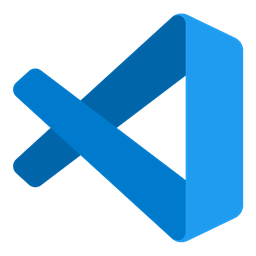
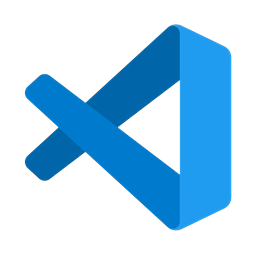
refactor(settings): consolidate curated skills into other settings
Move the curated skills controls out of the standalone MCP/Skills settings
section and into the Other settings section. Legacy deep links for `mcp` and
`mcp-skills` now resolve to Other settings so existing navigation still lands
on the available controls.

Update the client documentation tree to describe the new Settings > Other
placement for curated skills and MCP skills references. Remove the now-unused
settings sidebar entries for MCP/Skills and Permissions, along with their
unused icons and placeholder rendering paths.

Refresh tests to verify that the Skills sidebar entry is gone and that the
curated skills UI renders inside Other settings. Also adjust the provider
dialog proxy warning placement and styling so the warning appears below the
endpoint controls with stable single-line truncation.

Finally, update the VS Code app icon asset and include Grok in the dark-brand
topbar underline behavior so its active tab accent matches Codex and Kimi.

Impact: users now find bundled curated skills under Other settings instead of a
separate Skills sidebar item, old deep links continue to work, and related
documentation/tests match the new navigation structure.

Tested: SettingsView and OtherSection test coverage updated
Not-tested: Full settings visual regression pass

diff --git a/src/features/settings/components/SettingsView.tsx b/src/features/settings/components/SettingsView.tsx
@@ -47,16 +47,12 @@ import { DEFAULT_OPEN_APP_ID } from "../../app/constants";
 import { writeClientStoreValue } from "../../../services/clientStorage";
 import { VendorSettingsPanel } from "../../vendors/components/VendorSettingsPanel";
 import { AgentSettingsSection } from "./AgentSettingsSection";
-import { PlaceholderSection } from "./PlaceholderSection";
 import { CommitSection } from "./CommitSection";
 import { PromptSection } from "./PromptSection";
 import { UsageSection } from "./UsageSection";
-import { CuratedSection } from "../../curated-skills";
 import type { SessionRadarEntry } from "../../session-activity/hooks/useSessionRadarFeed";
 import { deleteSessionRadarHistoryEntries } from "../../session-activity/utils/sessionRadarHistoryManagement";
 import Settings from "lucide-react/dist/esm/icons/settings";
-import Server from "lucide-react/dist/esm/icons/server";
-import Shield from "lucide-react/dist/esm/icons/shield";
 import BarChart3 from "lucide-react/dist/esm/icons/bar-chart-3";
 import MoreHorizontalIcon from "lucide-react/dist/esm/icons/more-horizontal";
 import Users from "lucide-react/dist/esm/icons/users";
@@ -700,9 +696,6 @@ export function SettingsView({
     [],
   );
   const shouldShowWorkspaceSelector = false;
-  const mcpSectionDisabled = TEMPORARILY_DISABLED_SIDEBAR_SECTIONS.has("mcp");
-  const permissionsSectionDisabled =
-    TEMPORARILY_DISABLED_SIDEBAR_SECTIONS.has("permissions");
   const hasCodexHomeOverrides = useMemo(
     () => projects.some((workspace) => workspace.settings.codexHome != null),
     [projects],
@@ -835,6 +828,11 @@ export function SettingsView({
 
   useEffect(() => {
     if (initialSection) {
+      // 「内置精选」已并入其他设置；遗留 mcp 深链统一落到 other。
+      if (initialSection === "mcp") {
+        setActiveSection("other");
+        return;
+      }
       setActiveSection(
         TEMPORARILY_DISABLED_SIDEBAR_SECTIONS.has(initialSection)
           ? "providers"
@@ -879,7 +877,8 @@ export function SettingsView({
         return;
       case "mcp-servers":
       case "mcp-skills":
-        setActiveSection("mcp");
+        // 内置精选入口已取消，深链落到其他设置。
+        setActiveSection("other");
         return;
       case "runtime-pool":
         setActiveSection("runtime-environment");
@@ -1715,11 +1714,6 @@ export function SettingsView({
           title: t("settings.sidebarProjectManagement"),
           description: t("settings.projectManagementDescription"),
         };
-      case "mcp":
-        return {
-          title: t("settings.sidebarMcpSkills"),
-          description: t("settings.mcpSkillsDescription"),
-        };
       case "permissions":
         return {
           title: t("settings.placeholder.permissions.title"),
@@ -1827,32 +1821,6 @@ export function SettingsView({
           >
             <LayoutGrid aria-hidden />
             {t("settings.sidebarProjectManagement")}
-          </button>
-          <button
-            type="button"
-            className={`settings-nav ${!mcpSectionDisabled && activeSection === "mcp" ? "active" : ""}${mcpSectionDisabled ? " is-disabled" : ""}`}
-            onClick={() => {
-              if (!mcpSectionDisabled) {
-                setActiveSection("mcp");
-              }
-            }}
-            disabled={mcpSectionDisabled}
-          >
-            <Server aria-hidden />
-            {t("settings.sidebarMcpSkills")}
-          </button>
-          <button
-            type="button"
-            className={`settings-nav ${!permissionsSectionDisabled && activeSection === "permissions" ? "active" : ""}${permissionsSectionDisabled ? " is-disabled" : ""}`}
-            onClick={() => {
-              if (!permissionsSectionDisabled) {
-                setActiveSection("permissions");
-              }
-            }}
-            disabled={permissionsSectionDisabled}
-          >
-            <Shield aria-hidden />
-            {t("settings.sidebarPermissions")}
           </button>
           <button
             type="button"
@@ -2199,19 +2167,6 @@ export function SettingsView({
               onUpdateAppSettings={onUpdateAppSettings}
             />
           )}
-          {activeSection === "mcp" && (
-            // MCP 服务器清单已整体迁移到「拓展 → Mcps」；设置侧只保留
-            // 随包发布的内置精选 Skills 开关。
-            <section className="settings-section">
-              <CuratedSection
-                appSettings={appSettings}
-                onUpdateAppSettings={onUpdateAppSettings}
-              />
-            </section>
-          )}
-          {activeSection === "permissions" && (
-            <PlaceholderSection type="permissions" />
-          )}
           {activeSection === "commit" && (
             <CommitSection
               commitPrompt={commitPrompt}
@@ -2270,6 +2225,8 @@ export function SettingsView({
             <OtherSection
               title={null}
               description={null}
+              appSettings={appSettings}
+              onUpdateAppSettings={onUpdateAppSettings}
               sessionRadarRecentCompletedSessions={
                 sessionRadarRecentCompletedSessions
               }

diff --git a/src/features/client-documentation/clientDocumentationData.ts b/src/features/client-documentation/clientDocumentationData.ts
@@ -866,12 +866,12 @@ export const CLIENT_DOCUMENTATION_TREE: ClientDocumentationNode[] = [
     feature("global-search", "全局搜索入口", "聚合多类搜索结果。", "Search shortcut / palette", "统一查找文件、会话、命令等内容。", ["providers", "ranking", "jump"], ["搜索不是权限绕过路径。"], ["设置中心"]),
     feature("source-navigation", "文件、会话、上下文跳转", "从结果跳回来源。", "Search result / context source", "保持阅读和操作连贯。", ["file jump", "message jump", "source cards"], ["目标不存在时应展示可恢复状态。"], ["对话与会话"]),
   ]),
-  module("settings-center", "设置中心", "配置外观、快捷键、运行环境和供应商。", "Settings modal。", "集中管理用户偏好和运行前置条件。", ["基础设置", "外观与 UI visibility", "快捷键", "打开方式", "Web 服务", "邮件发送", "项目管理", "Runtime Environment", "Skills", "供应商与模型配置"], ["打开设置。", "选择左侧父入口和页内 tab。", "保存后按提示重启或下次生效。"], ["说明文档本期不新增 settings 字段。"], ["AI 引擎与模型", "Runtime 与终端"], [
+  module("settings-center", "设置中心", "配置外观、快捷键、运行环境和供应商。", "Settings modal。", "集中管理用户偏好和运行前置条件。", ["基础设置", "外观与 UI visibility", "快捷键", "打开方式", "Web 服务", "邮件发送", "项目管理", "Runtime Environment", "其他设置（含内置精选）", "供应商与模型配置"], ["打开设置。", "选择左侧父入口和页内 tab。", "保存后按提示重启或下次生效。"], ["说明文档本期不新增 settings 字段。"], ["AI 引擎与模型", "Runtime 与终端"], [
     feature("appearance-shortcuts", "外观、UI visibility 与快捷键", "控制界面显示和快捷键。", "Settings > Basic", "按个人习惯调整客户端。", ["theme", "UI visibility", "shortcuts"], ["最大隐藏模式仍需保留设置恢复路径。"], ["搜索与导航"]),
     feature("runtime-provider-settings", "Runtime Environment 与供应商配置", "配置 CLI、模型和 runtime 校验。", "Settings > Runtime / Providers", "保证引擎可启动、可诊断。", ["doctor", "vendor models", "runtime pool"], ["Windows doctor 与 macOS 权限提示不同。"], ["AI 引擎与模型"]),
   ]),
-  module("extension-capabilities", "扩展能力", "管理 MCP、Skills、Commands、Computer Use 和协作模式。", "拓展 > Skills / Mcps、Settings > Skills、Commands、Computer Use 面板。", "把外部工具能力接入客户端工作流。", ["MCP server inventory", "Skills 浏览", "Commands", "Computer Use", "Live edit preview", "Collaboration mode"], ["检查 MCP/Skills 状态。", "选择 commands 或协作模式。", "按平台能力启用 Computer Use。"], ["Computer Use 等能力有平台权限边界。"], ["设置中心", "Runtime 与终端"], [
-    feature("mcp-skills", "MCP server inventory 与 Skills", "查看工具服务和技能目录。", "拓展 > Mcps / Settings > Skills", "理解当前 AI 可调用的工具范围。", ["server inventory", "skills browser", "refresh"], ["说明窗口不读取或执行 skill 文件。"], ["Spec Hub 与规范工作流"]),
+  module("extension-capabilities", "扩展能力", "管理 MCP、Skills、Commands、Computer Use 和协作模式。", "拓展 > Skills / Mcps、Settings > 其他设置、Commands、Computer Use 面板。", "把外部工具能力接入客户端工作流。", ["MCP server inventory", "Skills 浏览", "Commands", "Computer Use", "Live edit preview", "Collaboration mode"], ["检查 MCP/Skills 状态。", "选择 commands 或协作模式。", "按平台能力启用 Computer Use。"], ["Computer Use 等能力有平台权限边界。"], ["设置中心", "Runtime 与终端"], [
+    feature("mcp-skills", "MCP server inventory 与 Skills", "查看工具服务和技能目录。", "拓展 > Mcps / Settings > 其他设置", "理解当前 AI 可调用的工具范围。", ["server inventory", "skills browser", "refresh"], ["说明窗口不读取或执行 skill 文件。"], ["Spec Hub 与规范工作流"]),
     feature("computer-use-collaboration", "Computer Use 与 Collaboration mode", "提供屏幕/协作相关能力入口。", "Computer Use / collaboration controls", "扩展 AI 处理真实任务的能力。", ["broker status", "permissions", "mode selection"], ["macOS 权限与 Windows 支持状态必须分别说明。"], ["AI 引擎与模型"]),
   ]),
   module("notifications-updates-about", "通知、更新与关于", "展示通知、更新和版本信息。", "Toast、Update check、About window。", "让用户知道任务完成、错误、版本和诊断状态。", ["系统通知", "完成提醒", "update check", "about / version 信息", "debug / diagnostics"], ["观察 toast。", "触发更新检查。", "查看 About 或 Debug 信息。"], ["通知不等于任务成功，仍需看状态或测试结果。"], ["任务与状态面板", "设置中心"], [

diff --git a/src/features/settings/components/settings-view/sections/OtherSection.tsx b/src/features/settings/components/settings-view/sections/OtherSection.tsx
@@ -12,8 +12,10 @@ import {
   setPerfDiagnosticsEnabled,
 } from "@/services/perfBaseline/perfDiagnosticsController";
 import { buildDiagnosticsReportText } from "@/services/perfBaseline/diagnosticsReport";
+import { CuratedSection } from "../../../../curated-skills";
 import { HistoryCompletionSettings } from "../../HistoryCompletionSettings";
 import { SessionRadarHistoryManagementSection } from "../../SessionRadarHistoryManagementSection";
+import type { AppSettings } from "../../../../../types";
 import type { SessionRadarEntry } from "../../../../session-activity/hooks/useSessionRadarFeed";
 import type { SessionRadarHistoryDeleteResult } from "../../../../session-activity/utils/sessionRadarHistoryManagement";
 import {
@@ -35,6 +37,8 @@ import {
 type OtherSectionProps = {
   title: string | null;
   description: string | null;
+  appSettings: Pick<AppSettings, "enabledCuratedSkillIds">;
+  onUpdateAppSettings: (next: AppSettings) => Promise<void>;
   sessionRadarRecentCompletedSessions: SessionRadarEntry[];
   onDeleteSessionRadarHistory: (
     entries: SessionRadarEntry[],
@@ -44,6 +48,8 @@ type OtherSectionProps = {
 export function OtherSection({
   title,
   description,
+  appSettings,
+  onUpdateAppSettings,
   sessionRadarRecentCompletedSessions,
   onDeleteSessionRadarHistory,
 }: OtherSectionProps) {
@@ -130,6 +136,12 @@ export function OtherSection({
       {description ? (
         <div className="settings-section-subtitle">{description}</div>
       ) : null}
+      {/* 内置精选 Skills：原独立侧栏入口已合并到其他设置 */}
+      <CuratedSection
+        appSettings={appSettings}
+        onUpdateAppSettings={onUpdateAppSettings}
+      />
+      <Separator className="my-4" />
       <HistoryCompletionSettings />
       <Separator className="my-4" />
       <div className="settings-subsection-title">

diff --git a/src/features/settings/components/settings-view/sections/OtherSection.test.tsx b/src/features/settings/components/settings-view/sections/OtherSection.test.tsx
@@ -31,6 +31,10 @@ vi.mock("../../HistoryCompletionSettings", () => ({
   HistoryCompletionSettings: () => <div data-testid="history-completion-settings" />,
 }));
 
+vi.mock("../../../../curated-skills", () => ({
+  CuratedSection: () => <div data-testid="curated-section-stub">Mock Curated Section</div>,
+}));
+
 vi.mock("./CostBudgetSettingsSection", () => ({
   CostBudgetSettingsSection: () => <div data-testid="cost-budget-settings" />,
 }));
@@ -46,6 +50,8 @@ function renderOtherSection() {
     <OtherSection
       title="Other"
       description="Other settings"
+      appSettings={{ enabledCuratedSkillIds: [] }}
+      onUpdateAppSettings={vi.fn().mockResolvedValue(undefined)}
       sessionRadarRecentCompletedSessions={[]}
       onDeleteSessionRadarHistory={vi.fn()}
     />,
@@ -56,6 +62,11 @@ describe("OtherSection performance diagnostics", () => {
   afterEach(() => {
     window.localStorage.clear();
     vi.unstubAllGlobals();
+  });
+
+  it("renders curated skills inside other settings", () => {
+    renderOtherSection();
+    expect(screen.getByTestId("curated-section-stub")).toBeTruthy();
   });
 
   it("shows default-on and persists explicit negative/positive overrides", () => {

diff --git a/src/features/settings/components/SettingsView.test.tsx b/src/features/settings/components/SettingsView.test.tsx
@@ -754,9 +754,10 @@ describe("SettingsView Display", () => {
         projectManagementEntry,
       ),
     );
+    // 内置精选已并入「其他设置」，侧栏不再有独立 Skills 入口。
     expect(
-      sidebarQueries.getByRole("button", { name: "Skills" }),
-    ).toBeTruthy();
+      sidebarQueries.queryByRole("button", { name: "Skills" }),
+    ).toBeNull();
     expect(
       sidebarQueries.getByRole("button", { name: "Agents / Prompts" }),
     ).toBeTruthy();
@@ -2314,9 +2315,9 @@ describe("SettingsView Shortcuts", () => {
     await flushSettingsViewEffects();
     expect(screen.getByText("settings.prompt.title")).toBeTruthy();
 
-    fireEvent.click(screen.getByRole("button", { name: "Skills" }));
+    fireEvent.click(screen.getByRole("button", { name: "Other" }));
     await flushSettingsViewEffects();
-    // MCP 服务器清单已迁移到「拓展 → Mcps」；设置侧该页只保留内置精选 Skills。
+    // 内置精选 Skills 已并入「其他设置」。
     expect(screen.getByTestId("curated-section-stub")).toBeTruthy();
 
     // 运行环境入口已从侧栏隐藏；内容逻辑仍保留，可通过 initialSection 验证。

diff --git a/src/features/vendors/components/ProviderDialog.tsx b/src/features/vendors/components/ProviderDialog.tsx
@@ -492,12 +492,6 @@ export function ProviderDialog({
                   ? t("settings.vendor.dialog.apiUrlLockedHint")
                   : t("settings.vendor.dialog.apiUrlHint")}
               </small>
-              {!isOfficialAnthropicEndpoint(apiUrl) && (
-                <div className="vendor-security-notice vendor-proxy-warning">
-                  <Cloud size={14} />
-                  <span>{t("settings.vendor.dialog.proxyEndpointWarning")}</span>
-                </div>
-              )}
             </div>
 
             <div className="vendor-form-group">
@@ -532,6 +526,13 @@ export function ProviderDialog({
               </small>
             </div>
           </div>
+
+          {!isOfficialAnthropicEndpoint(apiUrl) && (
+            <div className="vendor-security-notice vendor-proxy-warning">
+              <Cloud size={14} />
+              <span>{t("settings.vendor.dialog.proxyEndpointWarning")}</span>
+            </div>
+          )}
 
           <div className="vendor-form-group">
             <label>{t("settings.vendor.dialog.modelMapping")}</label>

diff --git a/src/styles/main.css b/src/styles/main.css
@@ -935,10 +935,11 @@ body[data-panel-resizing="true"] .main {
 }
 
 /* Engine-branded underline: Claude keeps the default clay accent.
-   Codex and Kimi track --text-stronger (near-black in light, light gray in dark)
+   Codex / Kimi / Grok track --text-stronger (near-black in light, light gray in dark)
    so the black brands stay visible on dark backgrounds. */
 .topbar-session-tab[data-engine="codex"],
-.topbar-session-tab[data-engine="kimi"] {
+.topbar-session-tab[data-engine="kimi"],
+.topbar-session-tab[data-engine="grok"] {
   --topbar-tab-active-accent: var(--text-stronger);
 }
 

diff --git a/src/styles/settings.vendor-dialog.css b/src/styles/settings.vendor-dialog.css
@@ -99,12 +99,18 @@
 }
 
 .vendor-proxy-warning {
-  margin-top: 8px;
+  margin-top: 0;
   padding: 8px 12px;
   border-color: color-mix(in srgb, #f39c12 45%, transparent);
   background: color-mix(in srgb, #f39c12 10%, var(--surface-card-strong));
   font-size: 12px;
   font-weight: 400;
+  white-space: nowrap;
+}
+
+.vendor-proxy-warning span {
+  overflow: hidden;
+  text-overflow: ellipsis;
 }
 
 .vendor-proxy-warning svg {

diff --git a/src/app-shell-parts/useAppShellLayoutNodesSection.tsx b/src/app-shell-parts/useAppShellLayoutNodesSection.tsx
@@ -1174,7 +1174,7 @@ export function useAppShellLayoutNodesSection(
     openSettings("dictation"),
   );
   const handleOpenSkillsSettings = useEventCallback(() =>
-    openSettings("mcp", "mcp-skills"),
+    openSettings("other", "mcp-skills"),
   );
   const handleSelectHome = useEventCallback(() => {
     closeSettings();
